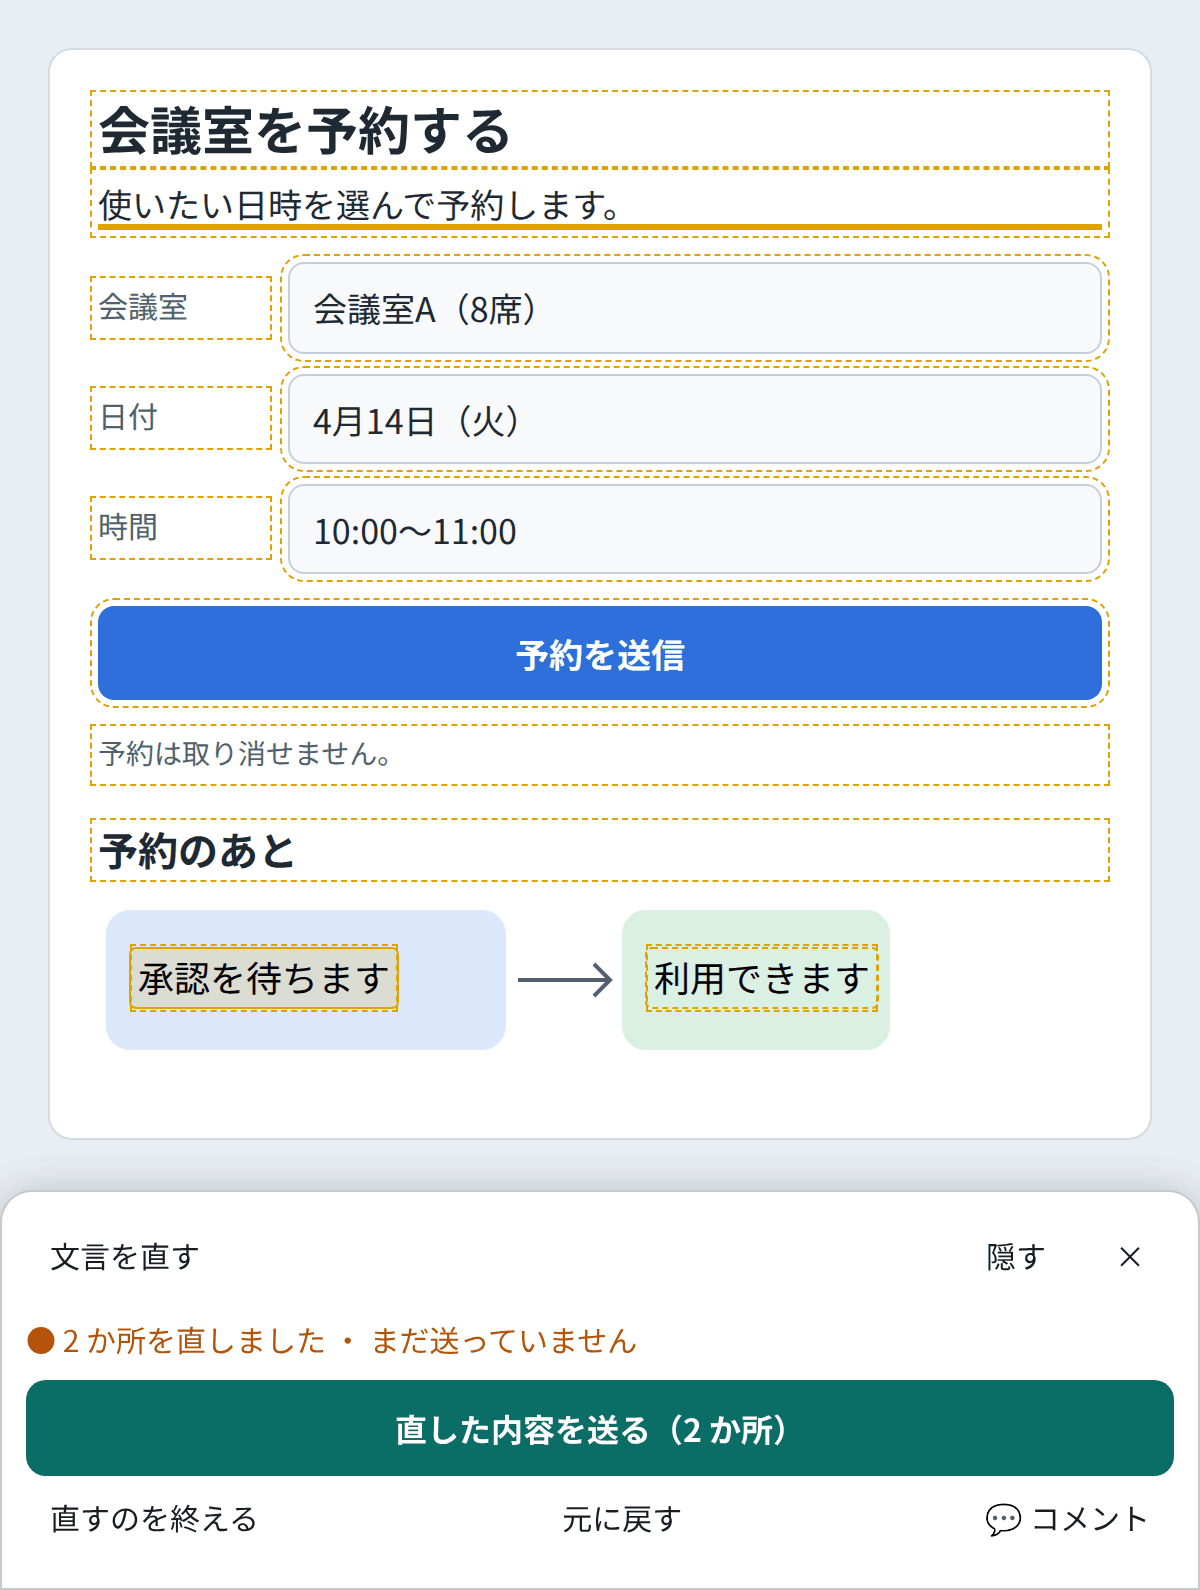
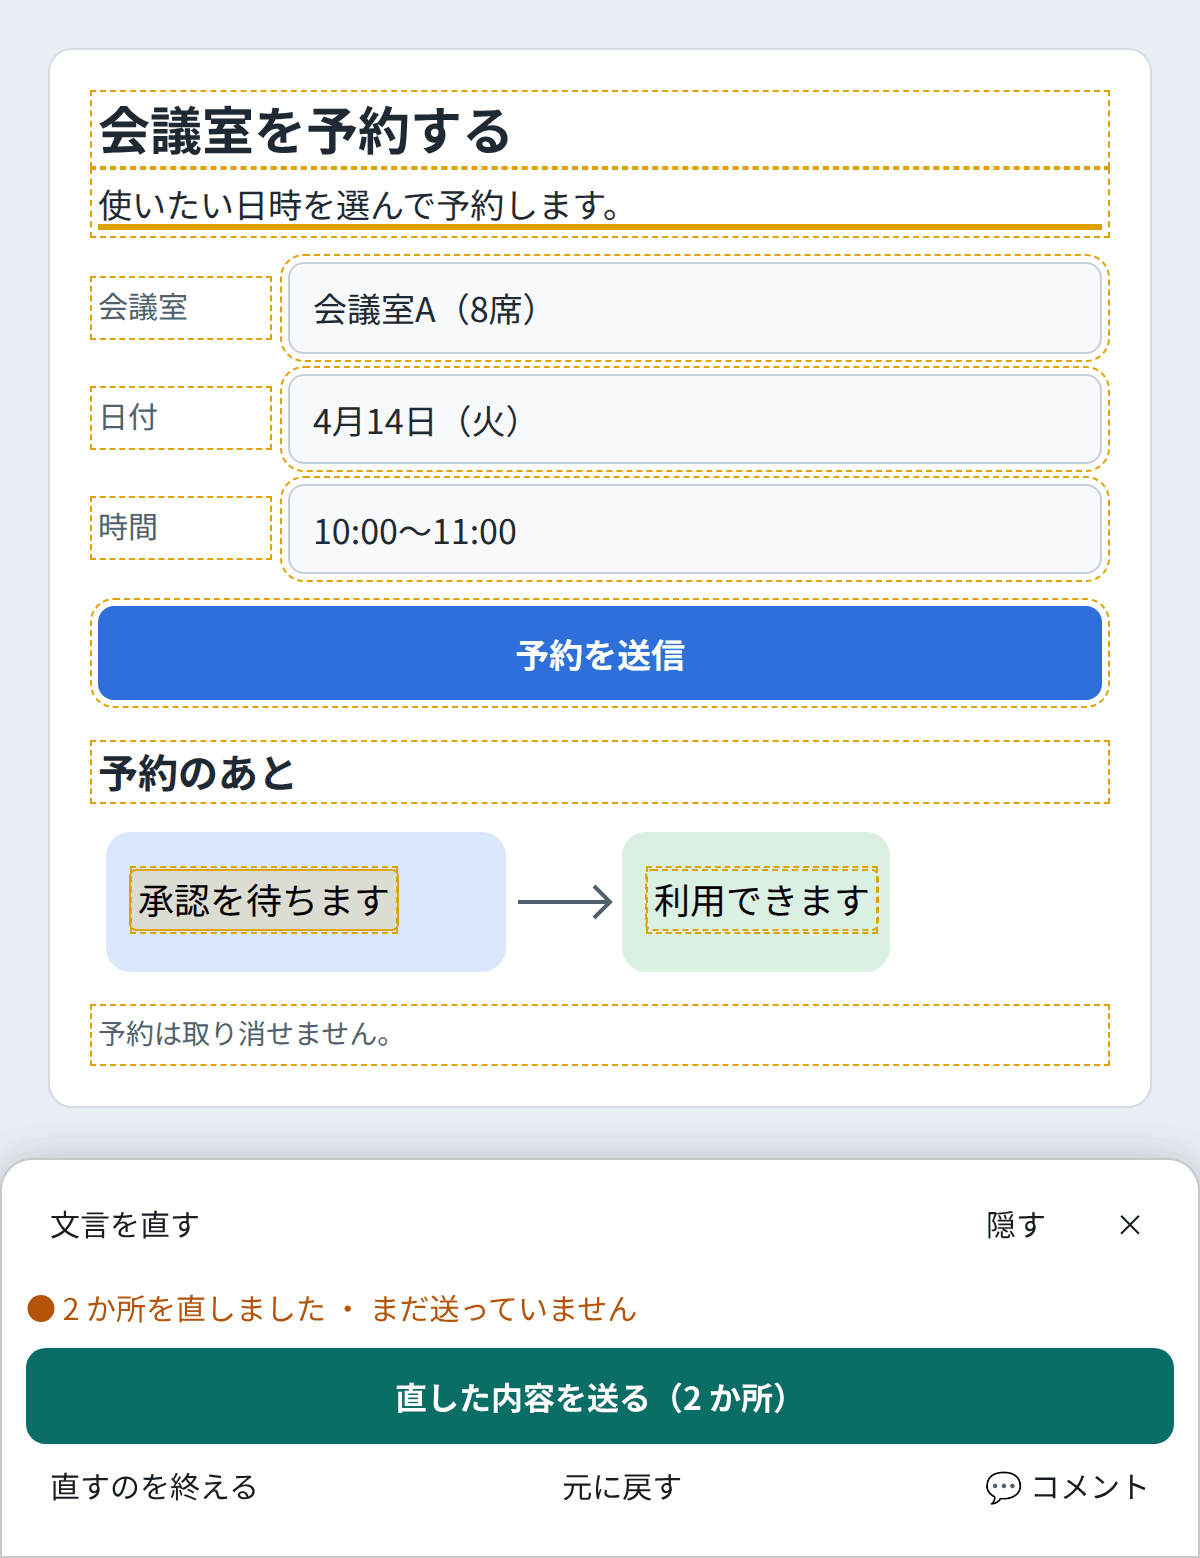
Keep the comment box off the figure in the comment screenshot
The cancellation note moves below the figure and the comment shot leaves room
under it, so the open box no longer hides the figure labels. Also drop inner
double quotes that cut the English edit screenshot's alt text short, and say
what is pasted in the chat caption.

diff --git a/docs/images/pages/booking.ja.html b/docs/images/pages/booking.ja.html
@@ -27,7 +27,6 @@
     <div class="row"><span>日付</span><div>4月14日（火）</div></div>
     <div class="row"><span>時間</span><div>10:00〜11:00</div></div>
     <div class="btn">予約を送信</div>
-    <p class="note">予約は取り消せません。</p>
     <h2>予約のあと</h2>
     <svg viewBox="0 0 400 100" width="400" role="img" aria-label="予約のあとの流れ">
       <rect x="4" y="10" width="200" height="70" rx="12" fill="#dbe7fb"/>
@@ -36,6 +35,7 @@
       <text x="20" y="51" font-size="18">承認待ち</text>
       <text x="278" y="51" font-size="18">利用できます</text>
     </svg>
+    <p class="note">予約は取り消せません。</p>
   </div>
   <script src="../../../fixwords.js"></script>
 </body>

diff --git a/docs/images/pages/booking.en.html b/docs/images/pages/booking.en.html
@@ -27,7 +27,6 @@
     <div class="row"><span>Date</span><div>Tue 14 April</div></div>
     <div class="row"><span>Time</span><div>10:00 – 11:00</div></div>
     <div class="btn">Submit booking</div>
-    <p class="note">Bookings cannot be cancelled.</p>
     <h2>After you book</h2>
     <svg viewBox="0 0 400 100" width="400" role="img" aria-label="What happens after booking">
       <rect x="4" y="10" width="200" height="70" rx="12" fill="#dbe7fb"/>
@@ -36,6 +35,7 @@
       <text x="20" y="51" font-size="18">Awaiting approval</text>
       <text x="278" y="51" font-size="18">Room is yours</text>
     </svg>
+    <p class="note">Bookings cannot be cancelled.</p>
   </div>
   <script src="../../../fixwords.js"></script>
 </body>

diff --git a/README.md b/README.md
@@ -4,7 +4,7 @@
 
 Let the people you shared a page with fix its wording themselves.
 
-<p><img src="docs/images/edit-en.png" width="440" alt="A room booking mockup in edit mode. The lead sentence and a label in the figure were rewritten and are highlighted, and the fixwords bar at the bottom shows "Changes: 2"."></p>
+<p><img src="docs/images/edit-en.png" width="440" alt="A room booking mockup in edit mode. The lead sentence and a label in the figure were rewritten and are highlighted, and the fixwords bar at the bottom shows 2 changes."></p>
 
 You made a mockup or a draft page (perhaps with an AI coding agent) and sent it to colleagues who do not write
 code. They spot wording they would change. With fixwords on the page they rewrite the text right where they see
@@ -75,7 +75,7 @@ Spring menu draft — Wording changes
    Note: Shorter overall would be fine.
 ```
 
-Pasted into a chat:
+A list pasted into a chat:
 
 <p><img src="docs/images/paste-en.png" width="440" alt="A chat where the reader has pasted the list of changes: two rewrites and one comment on the cancellation note."></p>
 

diff --git a/README.ja.md b/README.ja.md
@@ -73,7 +73,7 @@ AI に作業させている場合は、こう頼めば済みます。
    内容：全体にもう少し短くていいと思います。
 ```
 
-チャットに貼ったところ:
+一覧をチャットに貼ったところ:
 
 <p><img src="docs/images/paste-ja.png" width="440" alt="直す人が一覧をチャットに貼ったところ。2か所の書き換えと、取り消しについての注意書きへの1件のコメントが並んでいる。"></p>
 
